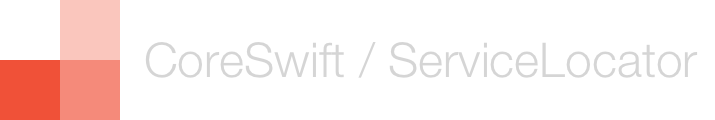
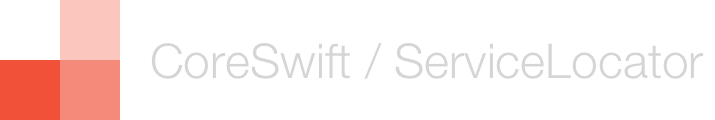
Use SVG

Changed region(s): [[0.1846, 0.35, 0.9846, 0.65], [0.6769, 0.35, 0.7077, 0.4]]

diff --git a/README.md b/README.md
@@ -1,5 +1,5 @@
-![CoreSwift Locks](Docs/coreswift-lockup-servicelocator.png#gh-light-mode-only)
-![CoreSwift Locks](Docs/coreswift-lockup-servicelocator-dark.png#gh-dark-mode-only)
+![CoreSwift Locks](Docs/coreswift-lockup-servicelocator.svg#gh-light-mode-only)
+![CoreSwift Locks](Docs/coreswift-lockup-servicelocator-dark.svg#gh-dark-mode-only)
 
 # ServiceLocator
 
